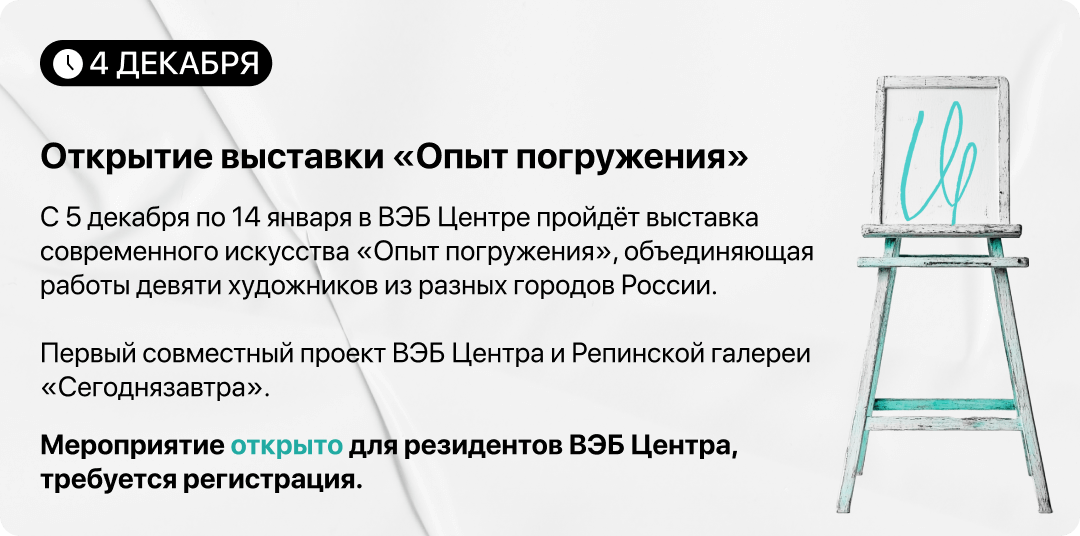
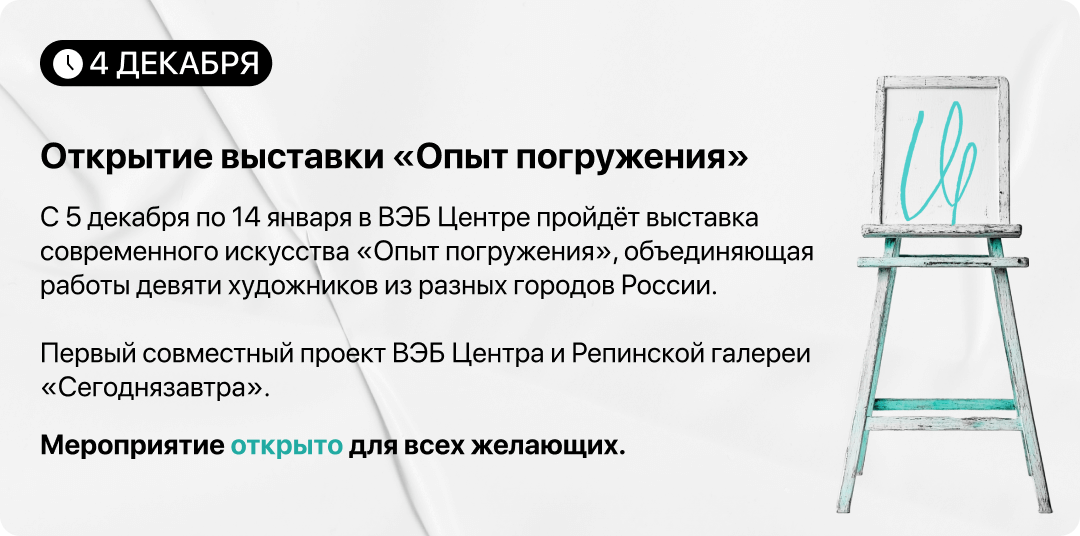
change veb-center-30

Changed region(s): [[0.3667, 0.806, 0.7028, 0.8657], [0.0306, 0.8657, 0.3361, 0.9254]]

diff --git a/veb-center-30/Анонс событий декабрь.html b/veb-center-30/Анонс событий декабрь.html
@@ -139,13 +139,13 @@
                                 </td>
                             </tr>
                             <tr>
-                                <td align="center" style="font-size:0px;word-break:break-word;">
+                                <td align="center" style="font-size:0px;word-break:break-word;padding-bottom:24px;">
                                     <table border="0" cellpadding="0" cellspacing="0" role="presentation" style="border-collapse:collapse;border-spacing:0px;">
                                         <tbody>
                                         <tr>
                                             <td>
                                                 <a href="https://t.me/segodnyazavtra_art/650" target="_blank">
-                                                    <img alt="4 декабря. 09:30. Открытие выставки «Опыт погружения». С 5 декабря по 14 января в ВЭБ Центре пройдёт выставка современного искусства «Опыт погружения», объединяющая работы девяти художников из разных городов России. Первый совместный проект ВЭБ Центра и Репинской галереи «Сегоднязавтра». Мероприятие открыто для резидентов ВЭБ Центра, требуется регистрация." height="auto" src="https://cp.unisender.com/ru/user_file?resource=images&user_id=5608985&name=vc-30-content-img-1.png" style="border:0;display:block;outline:none;text-decoration:none;height:auto;max-width:540px;width:100%;font-size:13px;" width="540" />
+                                                    <img alt="4 декабря. 09:30. Открытие выставки «Опыт погружения». С 5 декабря по 14 января в ВЭБ Центре пройдёт выставка современного искусства «Опыт погружения», объединяющая работы девяти художников из разных городов России. Первый совместный проект ВЭБ Центра и Репинской галереи «Сегоднязавтра». Мероприятие открыто для всех желающих." height="auto" src="https://cp.unisender.com/ru/user_file?resource=images&user_id=5608985&name=vc-30-content-img-1.png" style="border:0;display:block;outline:none;text-decoration:none;height:auto;max-width:540px;width:100%;font-size:13px;" width="540" />
                                                 </a>
                                             </td>
                                         </tr>
@@ -154,7 +154,22 @@
                                 </td>
                             </tr>
                             <tr>
-                                <td align="center" style="font-size:0px;word-break:break-word;padding:24px 0;">
+                                <td align="center" style="font-size:0px;word-break:break-word;padding-bottom: 24px;">
+                                    <table border="0" cellpadding="0" cellspacing="0" role="presentation" style="border-collapse:collapse;border-spacing:0px;">
+                                        <tbody>
+                                        <tr>
+                                            <td>
+                                                <a href="https://t.me/segodnyazavtra_art/662" target="_blank">
+                                                    <img alt="5 декабря. 18:00. Лекция «Новое искусство: Арт-объекты из стекла». В рамках выставки «Опыт погружения» куратор и искусствовед арт-пространства «Сегоднязавтра» Анна Филипенко проведёт лекцию «Новое искусство: Арт-объекты из стекла». Поговорим об истории появления феномена арт-объекта в искусстве стеклоделия, его развитии и многообразии в творчестве современных художников. Мероприятие открыто для резидентов ВЭБ Центра, требуется регистрация." height="auto" src="https://cp.unisender.com/ru/user_file?resource=images&user_id=5608985&name=vc-30-content-img-6.png" style="border:0;display:block;outline:none;text-decoration:none;height:auto;max-width:540px;width:100%;font-size:13px;" width="540" />
+                                                </a>
+                                            </td>
+                                        </tr>
+                                        </tbody>
+                                    </table>
+                                </td>
+                            </tr>
+                            <tr>
+                                <td align="center" style="font-size:0px;word-break:break-word;padding-bottom:24px;">
                                     <table border="0" cellpadding="0" cellspacing="0" role="presentation" style="border-collapse:collapse;border-spacing:0px;">
                                         <tbody>
                                         <tr>
@@ -197,27 +212,12 @@
                                 </td>
                             </tr>
                             <tr>
-                                <td align="center" style="font-size:0px;word-break:break-word;padding-bottom: 24px;">
-                                    <table border="0" cellpadding="0" cellspacing="0" role="presentation" style="border-collapse:collapse;border-spacing:0px;">
-                                        <tbody>
-                                        <tr>
-                                            <td>
-                                                <img alt="11 декабря. 09:30. Презентация ПО для глухих «Сенсор тех». Мероприятие открытое, требуется регистрация." height="auto" src="https://cp.unisender.com/ru/user_file?resource=images&user_id=5608985&name=vc-30-content-img-5.png" style="border:0;display:block;outline:none;text-decoration:none;height:auto;max-width:540px;width:100%;font-size:13px;" width="540" />
-                                            </td>
-                                        </tr>
-                                        </tbody>
-                                    </table>
-                                </td>
-                            </tr>
-                            <tr>
                                 <td align="center" style="font-size:0px;word-break:break-word;">
                                     <table border="0" cellpadding="0" cellspacing="0" role="presentation" style="border-collapse:collapse;border-spacing:0px;">
                                         <tbody>
                                         <tr>
                                             <td>
-                                                <a href="https://t.me/segodnyazavtra_art/662" target="_blank">
-                                                    <img alt="5 декабря. 18:00. Лекция «Новое искусство: Арт-объекты из стекла». В рамках выставки «Опыт погружения» куратор и искусствовед арт-пространства «Сегоднязавтра» Анна Филипенко проведёт лекцию «Новое искусство: Арт-объекты из стекла». Поговорим об истории появления феномена арт-объекта в искусстве стеклоделия, его развитии и многообразии в творчестве современных художников. Мероприятие открыто для резидентов ВЭБ Центра, требуется регистрация." height="auto" src="https://cp.unisender.com/ru/user_file?resource=images&user_id=5608985&name=vc-30-content-img-6.png" style="border:0;display:block;outline:none;text-decoration:none;height:auto;max-width:540px;width:100%;font-size:13px;" width="540" />
-                                                </a>
+                                                <img alt="11 декабря. 09:30. Презентация ПО для глухих «Сенсор тех». Мероприятие открытое, требуется регистрация." height="auto" src="https://cp.unisender.com/ru/user_file?resource=images&user_id=5608985&name=vc-30-content-img-5.png" style="border:0;display:block;outline:none;text-decoration:none;height:auto;max-width:540px;width:100%;font-size:13px;" width="540" />
                                             </td>
                                         </tr>
                                         </tbody>
